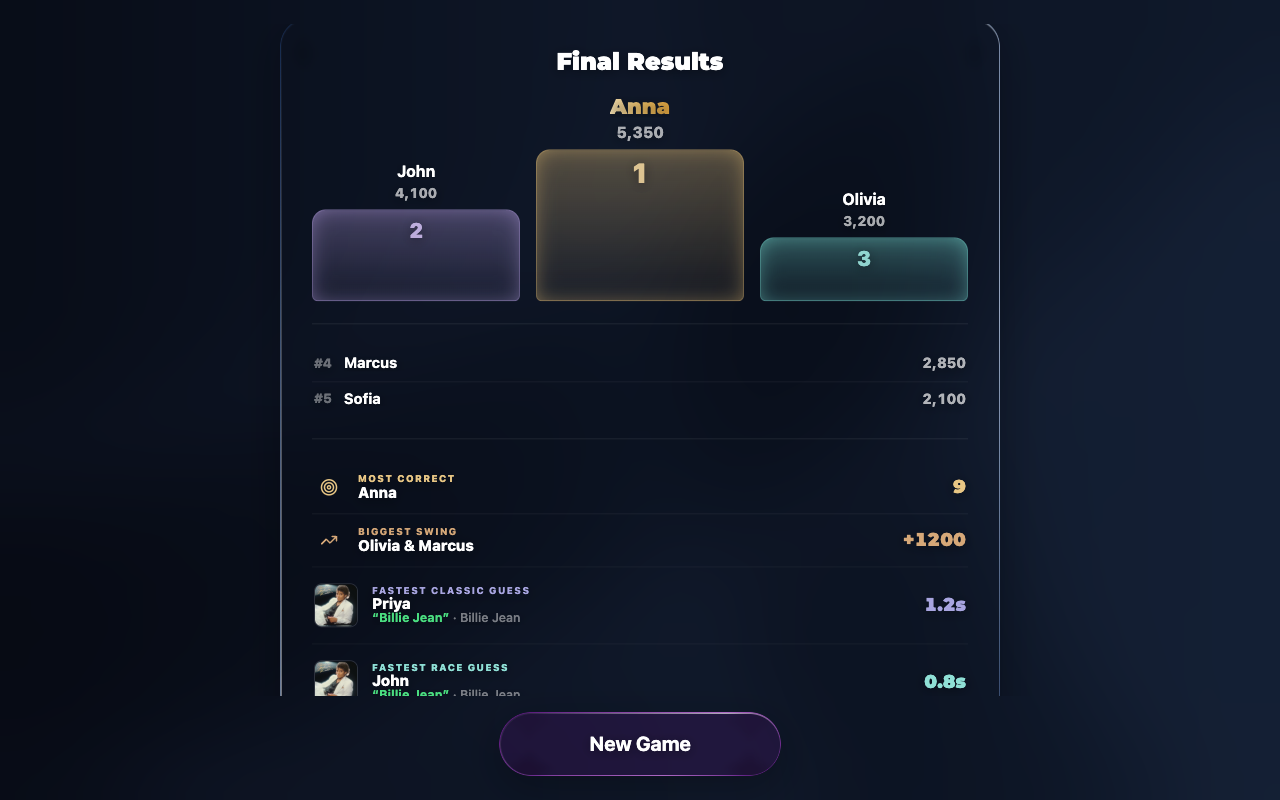
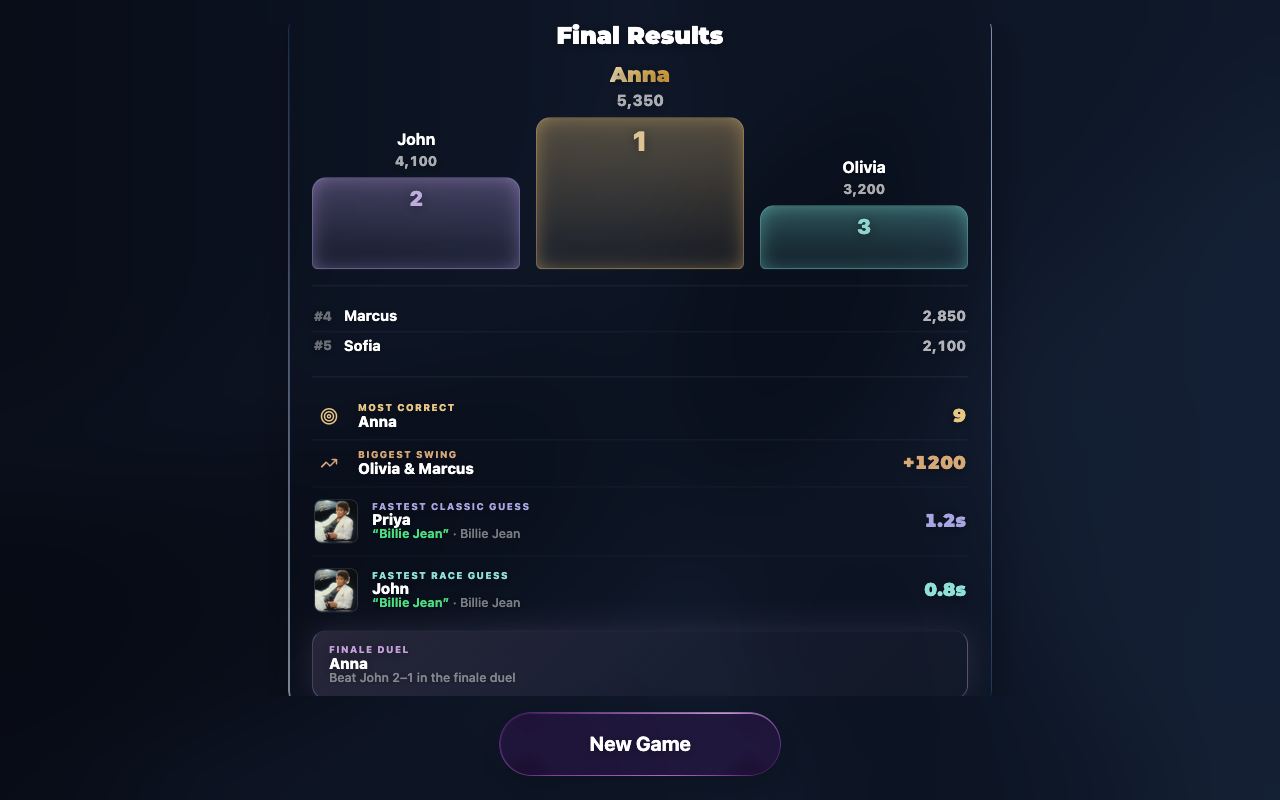
fix: tighten final-results panel spacing to fit common resolutions
Podium + standings + all 5 awards measured ~805px of real content
against a viewport that only leaves ~672px after the footer and outer
padding, so the maximal case (a full leaderboard plus every award
type) always needed to scroll even after the previous clipping fix.
Trimming row padding, the recap's section gaps, and the panel's own
liquid-glass padding gets that down to where it fits at 1280x800
without scrolling at all, while the (now-working) scroll fallback
still covers anything taller. Same row/section CSS is shared by the
player view, so its panel tightens the same way.

Claude-Session: https://claude.ai/code/session_01F2uXQBVkR4G33BgXhdhWMY

diff --git a/client/src/components/FinalResults.tsx b/client/src/components/FinalResults.tsx
@@ -476,12 +476,12 @@ function PodiumRevealCard({ rank, entry, awards, visible, reducedMotion }: Reado
 // is an estimate computed from actual row counts up front, matching the
 // cardHeight-prop idiom RevealView.tsx already uses for the same reason.
 
-const PANEL_PAD_V = 56;
-const PANEL_TITLE_H = 44;
-const PANEL_PODIUM_H = 224;
-const PANEL_SECTION_GAP = 26;
-export const STANDINGS_ROW_H = 46;
-export const AWARD_ROW_H = 62;
+const PANEL_PAD_V = 40;
+const PANEL_TITLE_H = 26;
+const PANEL_PODIUM_H = 208;
+const PANEL_SECTION_GAP = 16;
+export const STANDINGS_ROW_H = 30;
+export const AWARD_ROW_H = 54;
 
 export function estimatePanelHeight(sectionHeights: number[]): number {
   const present = sectionHeights.filter(h => h > 0);
@@ -715,9 +715,9 @@ export function FinalResultsView({ leaderboard, awards, backgroundSrc, footer }:
                 {...LIQUID_CARD_PROPS}
                 elasticity={0}
                 cornerRadius={28}
-                padding="32px 32px 26px"
+                padding="22px 24px 18px"
               >
-                <div style={{ width: 'min(88vw, 656px)', display: 'flex', flexDirection: 'column', alignItems: 'center', gap: '22px' }}>
+                <div style={{ width: 'min(88vw, 656px)', display: 'flex', flexDirection: 'column', alignItems: 'center', gap: '16px' }}>
                   <h2 className="recap-title">Final Results</h2>
                   <PodiumRow podium={podium} />
                   {rest.length > 0 && (

diff --git a/client/src/index.css b/client/src/index.css
@@ -462,7 +462,7 @@ select:focus-visible,
   display: flex;
   align-items: center;
   gap: 12px;
-  padding: 10px 2px;
+  padding: 7px 2px;
   animation: resultRowIn 0.4s cubic-bezier(0.16, 1, 0.3, 1) both;
 }
 
@@ -502,7 +502,7 @@ select:focus-visible,
   display: flex;
   align-items: center;
   gap: 14px;
-  padding: 16px 2px;
+  padding: 12px 2px;
   animation: awardRowIn 0.42s cubic-bezier(0.16, 1, 0.3, 1) both;
 }
 
@@ -531,7 +531,7 @@ select:focus-visible,
    the cover-art awards get -- there's no image to give room to, so they
    fall back to the original compact height and icon-mark size. */
 .award-row-compact {
-  padding: 11px 2px;
+  padding: 8px 2px;
 }
 
 .award-row-compact .award-row-mark {
@@ -544,8 +544,8 @@ select:focus-visible,
    label/stat color, and a bigger name to read as the last, biggest award. */
 .award-row-finale {
   border-top: none;
-  margin-top: 10px;
-  padding: 18px 16px;
+  margin-top: 6px;
+  padding: 14px 16px;
   border-radius: 14px;
   background: linear-gradient(135deg, rgba(194,160,217,0.16) 0%, rgba(194,160,217,0.05) 55%, rgba(255,255,255,0.02) 100%);
   border: 1px solid rgba(194,160,217,0.32);
